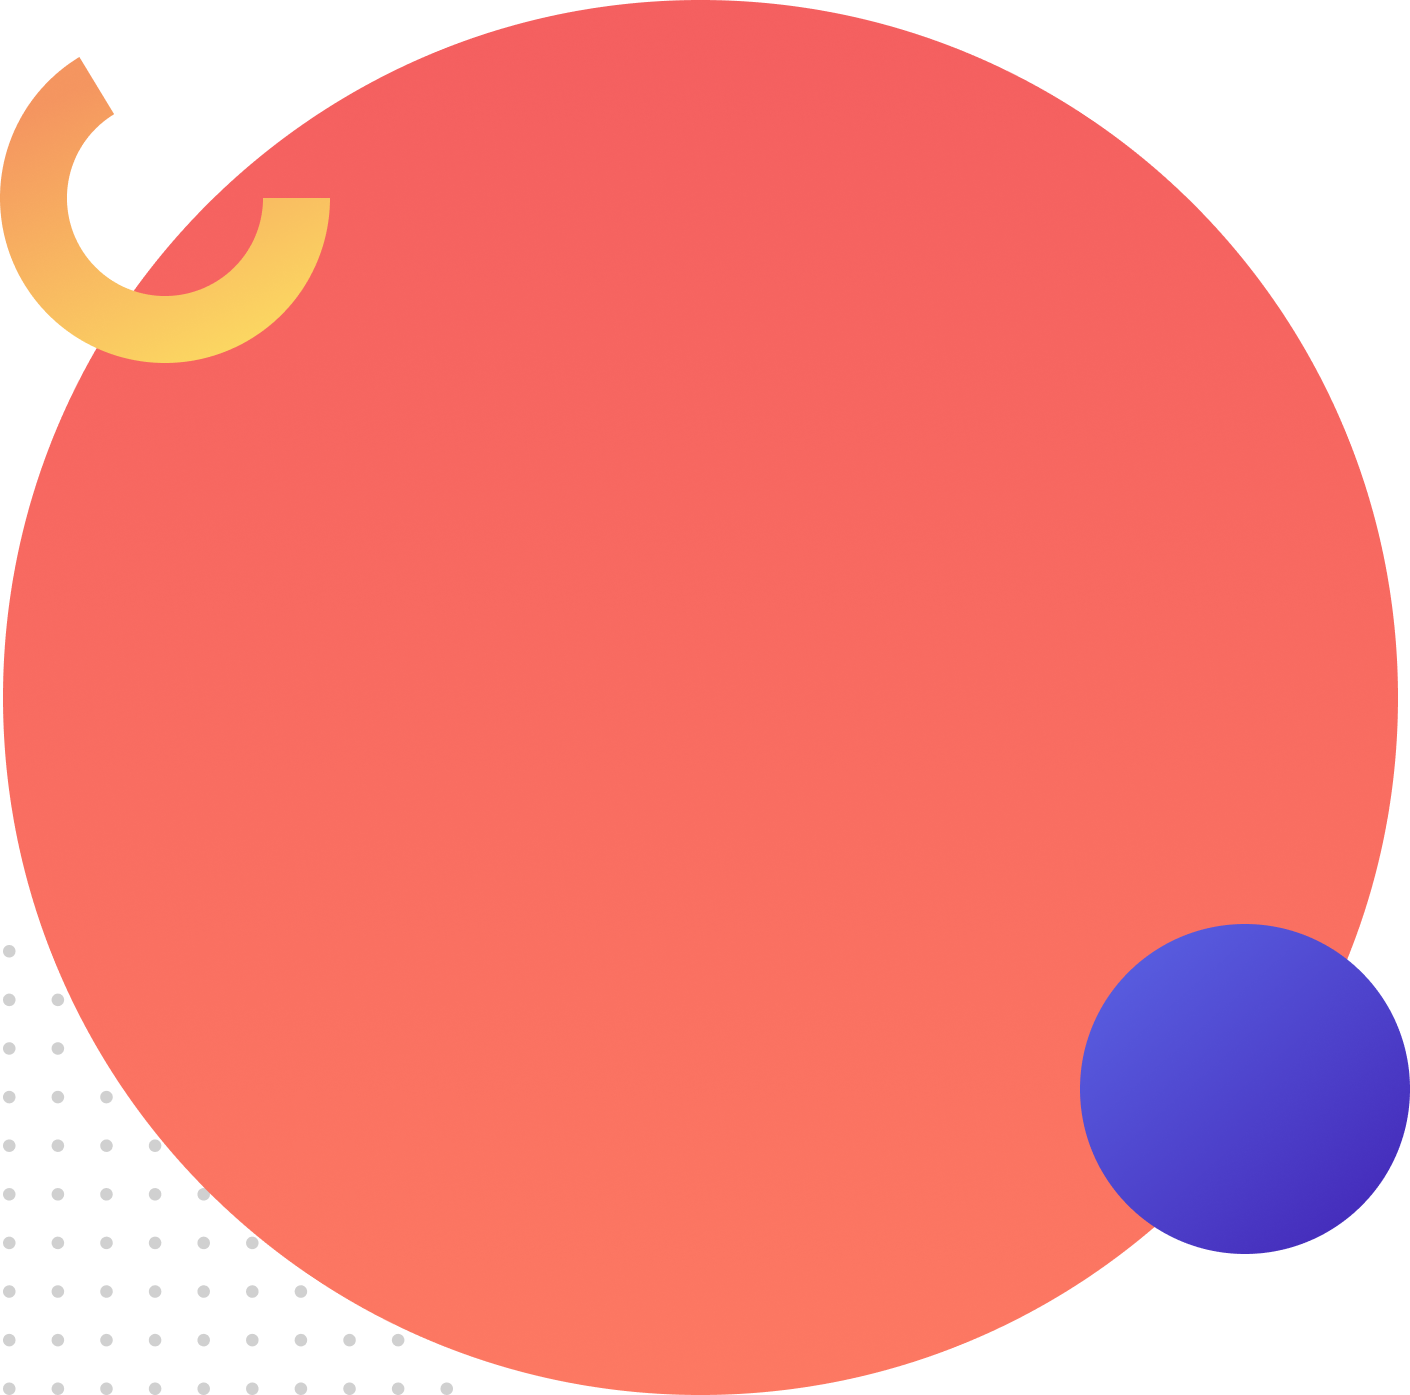
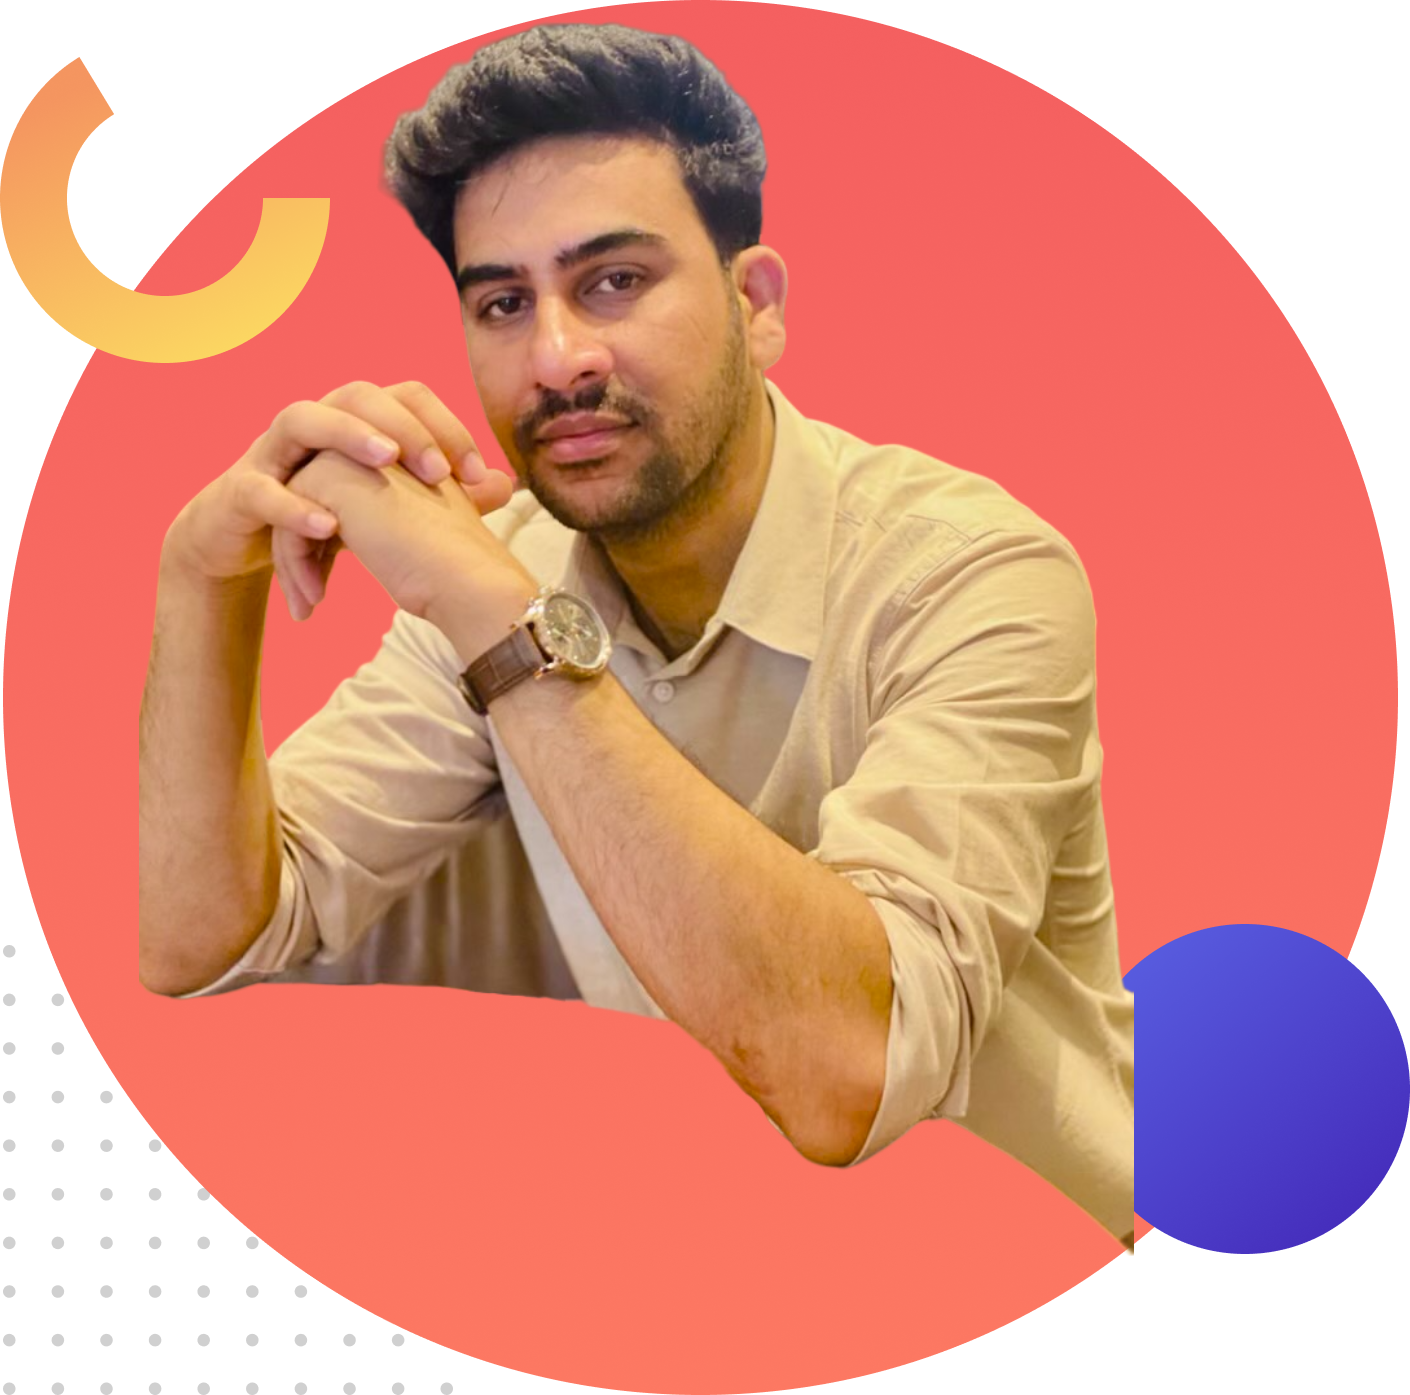
done

diff --git a/index.html b/index.html
@@ -1,0 +1,62 @@
+<!DOCTYPE html>
+<html lang="en">
+<head>
+    <meta charset="UTF-8">
+    <meta name="viewport" content="width=device-width, initial-scale=1.0">
+    <title>Assignment</title>
+    <link rel="preconnect" href="https://fonts.googleapis.com">
+    <link rel="preconnect" href="https://fonts.gstatic.com" crossorigin>
+    <link href="https://fonts.googleapis.com/css2?family=Poppins:wght@200;400&display=swap" rel="stylesheet">
+    <link rel="stylesheet" href="style.css">
+</head>
+<body>
+    <section class="top-banner">
+        <div class="half-width">
+            <h1>HELLO, I'M </h1>
+            <h1><samp id="name">ROB DAVIDSON</samp></h1>
+            <P>A full stack allaround designer that placeratin <br> massa consectetur</P>
+            <a href="https://www.linkedin.com/in/shah-tuhin-ahmed-a230016b/" target="_blank"> Hire Me</a>
+        </div>
+        <div class="half-width">
+            <img src="images/profile.png" alt="">
+        </div>
+    </section>
+    <section class="mid-banner">
+        <div class="half-width">
+            <img src="images/profile2 (2).png" alt="">
+        </div>
+        <div class="half-width">
+            <h1 id="abt">ABOUT</h1>
+            <p id="abt">Lorem Ipsum is simply dummy text of the printing and 
+                typesetting industry. Lorem Ipsum has been the industry's 
+                standard dummy text ever since the 1500s, when an unknown 
+                printer took a galley of type and scrambled it to make a type 
+                specimen book</p>
+                <a id="button" href="file:///C:/Users/tuhin/OneDrive/Documents/OneDrive/Desktop/CV.pdf" target="_blank">Download Resume</a>
+                
+        </div>
+
+    </section>
+    <section class="last-part">
+        <h1>LASTET WORKING PROJECT</h1>
+        <div class="cloum">
+            <img src="images/image 4.png" width="100%">
+            <h1>Power-x-gym (gym website)</h1>
+            <p>Lorem Ipsum is simply dummy text of the printing and typesetting industry.</p>
+        </div>
+        <div class="cloum">
+            <img src="images/image 5.png" width="100%">
+            <h1>Creative Agency</h1>
+            <p>Lorem Ipsum is simply dummy text of the printing and typesetting industry.</p>
+    
+        </div>
+        <div class="cloum">
+            <img src="images/image 8.png" width="100%">
+            <h1>Hard Rock Music</h1>
+            <p>Lorem Ipsum is simply dummy text of the printing and typesetting industry.</p>
+        </div>
+
+    </section>
+
+</body>
+</html>

diff --git a/style.css b/style.css
@@ -1,0 +1,84 @@
+body{
+    font-family: 'Poppins', sans-serif;
+}
+.top-banner{
+    margin-left: 10%;
+}
+.half-width{
+    width: 45%;
+    float: left;
+    padding-bottom: 5%;
+}
+.half-width h1{
+    font-size: 50px;
+    color: black, gray;
+    font-weight:bold;
+    margin: 0;
+
+
+}
+#name{
+    color:rgb(209, 138, 105);
+}
+.half-width a{
+    background-image:linear-gradient(to left,rgb(0, 115, 128),rgb(0, 98, 255));
+    border: none;
+    color: white;
+    padding: 16px 40px;
+    font-weight: 700;
+    text-decoration: none;
+    border-radius:5px;
+}
+section{
+    height: 500px;
+    margin: 0%;
+
+}
+.half-width img{
+    width: 100%;
+}
+.mid-banner{
+    margin-left: 10%;
+}
+#abt{
+    color: dimgrey;
+    margin-left: 70px;
+}
+#button{
+    margin-left: 70px;
+}
+#last{
+    color: orange;
+
+}
+.last-part{
+    margin-top: 15%;
+    text-align: center;
+    content: "";
+  clear: both;
+  display: table;
+}
+.last-part h1{
+    font-size: 40px;
+}
+.cloum{
+  float: left;
+  padding: 10px 10px;
+  border-radius: 5%;
+  width: 25%;
+  box-shadow: 0px 2px 8px 0px rgba(0,0,0,0.2);
+  margin: 2%;
+}
+
+.cloum h1{
+    font-size: 20px;
+    text-align: left;
+    margin-left: 2%;
+}
+.cloum p{
+    font-size: 20px;
+    text-align: left;
+    margin-left: 2%;
+    color: dimgray;
+}
+
